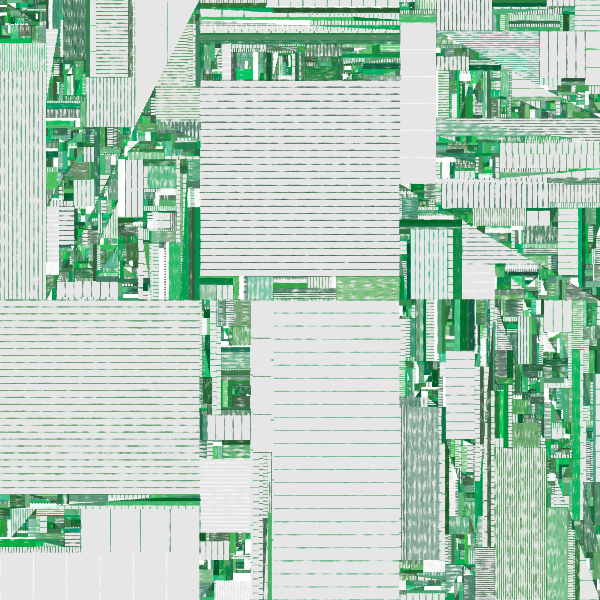
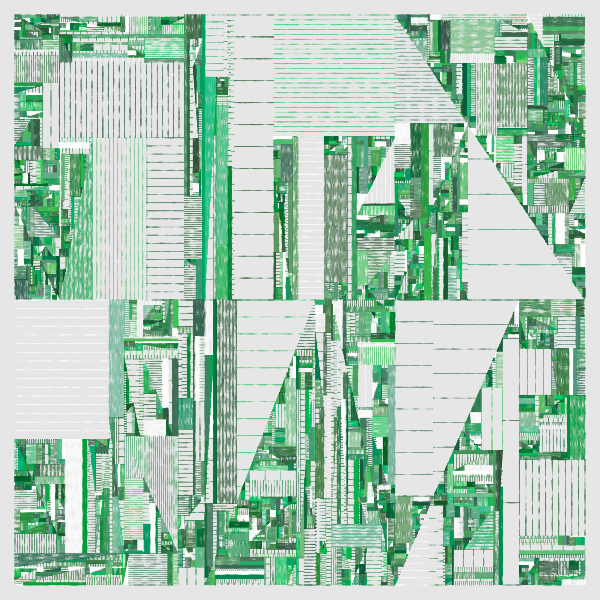
Restore Recursive internal paper padding without letterboxing

diff --git a/player/test/recursive-fullscreen.js b/player/test/recursive-fullscreen.js
@@ -17,13 +17,16 @@ function inspect(){
  const c=document.querySelector('canvas'),r=c.getBoundingClientRect(),ctx=c.getContext('2d');
  const expected=document.createElement('canvas');expected.width=c.width;expected.height=c.height;expected.getContext('2d').drawImage(mainCanvas.canvas,0,0,c.width,c.height);
  const actual=ctx.getImageData(0,0,c.width,c.height).data,ref=expected.getContext('2d').getImageData(0,0,c.width,c.height).data;
+ const padX=Math.max(1,Math.floor(100*scaler*c.width/mainCanvas.width)-1),padY=Math.max(1,Math.floor(100*scaler*c.height/mainCanvas.height)-1);
+ let marginMismatch=0;
  let differing=0,maxDelta=0,transparent=0;const colors=new Set();const edges={top:{black:0,n:0},bottom:{black:0,n:0},left:{black:0,n:0},right:{black:0,n:0}};
  for(let y=0;y<c.height;y++)for(let x=0;x<c.width;x++){
   const i=(y*c.width+x)*4;let diff=false;for(let k=0;k<4;k++){const d=Math.abs(actual[i+k]-ref[i+k]);if(d)diff=true;maxDelta=Math.max(maxDelta,d);}if(diff)differing++;
+  if(x<padX||x>=c.width-padX||y<padY||y>=c.height-padY){for(let k=0;k<4;k++)if(actual[i+k]!==actual[k]){marginMismatch++;break;}}
   if(actual[i+3]!==255)transparent++;colors.add((actual[i]<<16)|(actual[i+1]<<8)|actual[i+2]);
   for(const key of [y===0?'top':null,y===c.height-1?'bottom':null,x===0?'left':null,x===c.width-1?'right':null].filter(Boolean)){edges[key].n++;if(actual[i]<4&&actual[i+1]<4&&actual[i+2]<4)edges[key].black++;}
  }
- return {viewport:{width:innerWidth,height:innerHeight},rect:{x:r.x,y:r.y,width:r.width,height:r.height},backing:{width:c.width,height:c.height},main:{width:mainCanvas.width,height:mainCanvas.height},canvasWidth,canvasHeight,longSide,drawFinished,looping:isLooping(),fxhash,features:window.$fxhashFeatures,differing,maxDelta,transparent,colors:colors.size,edges,p5Version:p5.VERSION};
+ return {viewport:{width:innerWidth,height:innerHeight},rect:{x:r.x,y:r.y,width:r.width,height:r.height},backing:{width:c.width,height:c.height},main:{width:mainCanvas.width,height:mainCanvas.height},canvasWidth,canvasHeight,longSide,drawFinished,looping:isLooping(),fxhash,features:window.$fxhashFeatures,differing,maxDelta,transparent,colors:colors.size,edges,margin:{padX,padY,mismatch:marginMismatch},p5Version:p5.VERSION};
 }
 app.whenReady().then(async()=>{
  fs.mkdirSync(out,{recursive:true});
@@ -42,7 +45,7 @@ app.whenReady().then(async()=>{
  for(const [name,w,h] of [['wide',800,450],['portrait',450,800],['square',600,600]]){
   active={name,requested:{width:w,height:h},blocked:[],httpFailures:[],consoleErrors:[]};results.cases.push(active);const began=Date.now();win.setContentSize(w,h);assert.equal(win.isFullScreen(),false);assert.equal(win.isAlwaysOnTop(),false);
   await win.loadURL(origin+'/?exhibition=1');await until('playerState().current?.done&&!playerState().advancing','genuine setup completion');active.elapsedMs=Date.now()-began;active.state=await js('playerState()');assert.ok(active.state.status.includes('completed: setup'));
-  active.pixels=await inArt(inspect);const p=active.pixels;assert.deepEqual(p.viewport,{width:w,height:h});assert.deepEqual(p.rect,{x:0,y:0,width:w,height:h});assert.equal(Math.max(p.main.width,p.main.height),2000);assert.equal(p.main.width/p.main.height,w/h);assert.equal(p.drawFinished,true);assert.equal(p.looping,false);assert.equal(p.fxhash,fixedSeed);assert.equal(p.differing,0,'final display must equal complete mainCanvas composite, every pixel');assert.equal(p.transparent,0);assert.ok(p.colors>100);for(const e of Object.values(p.edges))assert.equal(e.black,0,'no black letterbox edge');assert.equal(active.blocked.length,0);assert.equal(active.httpFailures.length,0);assert.equal(active.consoleErrors.length,0);
+  active.pixels=await inArt(inspect);const p=active.pixels;assert.deepEqual(p.viewport,{width:w,height:h});assert.deepEqual(p.rect,{x:0,y:0,width:w,height:h});assert.equal(Math.max(p.main.width,p.main.height),2000);assert.equal(p.main.width/p.main.height,w/h);assert.equal(p.drawFinished,true);assert.equal(p.looping,false);assert.equal(p.fxhash,fixedSeed);assert.equal(p.differing,0,'final display must equal complete mainCanvas composite, every pixel');assert.equal(p.transparent,0);assert.ok(p.colors>100);assert.ok(p.margin.padX>1&&p.margin.padY>1);assert.equal(p.margin.mismatch,0,'all four padding bands preserve uniform paper color');for(const e of Object.values(p.edges))assert.equal(e.black,0,'no black letterbox edge');assert.equal(active.blocked.length,0);assert.equal(active.httpFailures.length,0);assert.equal(active.consoleErrors.length,0);
   const before=await inArt(()=>document.querySelector('canvas').toDataURL());await sleep(200);assert.equal(await inArt(()=>document.querySelector('canvas').toDataURL()),before);active.finalFrameStable=true;
   active.screenshot='audit/recursive-fullscreen/'+name+'.png';fs.writeFileSync(path.join(root,active.screenshot),(await win.webContents.capturePage()).toPNG());active.pass=true;save();console.log('CASE_PASS '+JSON.stringify(active));
  }

diff --git a/player/test/recursive-layout.test.js b/player/test/recursive-layout.test.js
@@ -11,8 +11,8 @@ test('Recursive drawing buffer follows wide, portrait, square and ultrawide view
 test('Recursive image composites full viewport without fixed orientation or letterbox',()=>{
  const images=[],c=load(source,{width:1920,height:1080,BLEND:'blend',blendMode(){},image:(...args)=>images.push(args)});vm.runInContext('mainCanvas={};draw();',c);assert.equal(images.length,1);assert.deepEqual(images[0].slice(1),[0,0,1920,1080]);
 });
-test('Recursive grid has no fixed paper margins and covers complete buffer',async()=>{
- const calls=[],c=load(source,{capture:(...a)=>calls.push(a)});vm.runInContext('gridW=2;gridH=3;canvasWidth=1600;canvasHeight=900;NYRect=async(...args)=>capture(...args);',c);await c.startDraw();assert.equal(calls.length,6);assert.equal(Math.min(...calls.map(a=>a[0])),0);assert.equal(Math.min(...calls.map(a=>a[1])),0);assert.equal(Math.max(...calls.map(a=>a[0]+a[2])),1600);assert.equal(Math.max(...calls.map(a=>a[1]+a[3])),900);
+test('Recursive grid preserves original internal padding within full-size buffer',async()=>{
+ const calls=[],c=load(source,{capture:(...a)=>calls.push(a)});vm.runInContext('gridW=2;gridH=3;canvasWidth=1600;canvasHeight=900;NYRect=async(...args)=>capture(...args);',c);await c.startDraw();assert.equal(calls.length,6);assert.equal(Math.min(...calls.map(a=>a[0])),50);assert.equal(Math.min(...calls.map(a=>a[1])),50);assert.equal(Math.max(...calls.map(a=>a[0]+a[2])),1550);assert.equal(Math.max(...calls.map(a=>a[1]+a[3])),850);
 });
 test('Recursive core shape, color and random algorithms remain byte-for-byte function-identical',()=>{
  const a=load(original),b=load();for(const name of ['NYRect','NYTriangle','NYLine','NYRandomColor','NYNoiseMap','fxRandom','sleep'])assert.equal(vm.runInContext(name+'.toString()',a),vm.runInContext(name+'.toString()',b),name);

diff --git a/artworks/2022-Recursive-and-Blocks/sketch.js b/artworks/2022-Recursive-and-Blocks/sketch.js
@@ -108,7 +108,7 @@ async function startDraw() {
 
   console.log("amount: " + blockWCount + "," + blockHCount);
 
-  let padding = 0; // Edge-to-edge composition; no fixed paper margin.
+  let padding = 100 * scaler; // Original internal paper margin; viewport remains full-size.
 
   let blockWidth = (canvasWidth - padding * 2) / blockWCount
   let blockHeight = (canvasHeight - padding * 2) / blockHCount;

diff --git a/audit/recursive-fullscreen/report.md b/audit/recursive-fullscreen/report.md
@@ -1,19 +1,7 @@
-# Recursive viewport independent validation — PASS
+# Recursive viewport with original internal padding — PASS
 
-2026-11-04, actual Electron 39.8.10 / Chromium 142 / artwork p5 1.4.1. Ran `player/test/recursive-fullscreen.js` with the supplied Node 24 launcher on the Mac mini. Exit code 0; `RECURSIVE_FULLSCREEN_PASS` in `run.log`. Ordinary visible window, fullscreen=false and alwaysOnTop=false asserted; no exhibition native-window code called. The `?exhibition=1` player query only suppresses UI overlays. Exact localhost origin allow-list enforced for every network request.
+Restored original padding: 100 * scaler, default 50 on the 2000-pixel long-edge drawing buffer. Canvas still fills the viewport aspect ratio; fixed-orientation letterboxing is not restored.
 
-| Content viewport | Generation canvas | Completion elapsed | Distinct display colors |
-|---|---|---|---|
-| 800×450 (16:9) | 2000×1125 | 9,900 ms | 70,654 |
-| 450×800 (9:16) | 1125×2000 | 9,488 ms | 68,737 |
-| 600×600 (1:1) | 2000×2000 | 11,521 ms | 62,603 |
+Actual offline p5 rendering passed for 800x450, 450x800 and 600x600. Genuine setup completion, stable final frames, exact final pixel match to completed mainCanvas. All four internal paper-colored padding bands are uniform; no transparent pixels or black letterbox edges. Results and screenshots refreshed after padding correction; wide screenshot visually inspected. Earlier no-margin evidence is superseded.
 
-All three use the same fixed fxhash, appended by test-only request redirect; artwork source is not modified/instrumented. Each genuinely reached player `completed: setup`, `drawFinished=true`, and `isLooping()=false`. Visible canvas rectangle is exactly (0,0,viewportWidth,viewportHeight). Generation aspect equals viewport aspect, maintaining the 2000-pixel long-edge budget.
-
-After completion, same-origin iframe evaluation reads the real lexical `mainCanvas`. A fresh reference canvas composites the completed mainCanvas to display dimensions. Every display RGBA pixel matches reference exactly in all cases (differing=0, maxDelta=0), including all edges. This validates final-frame flush without calling artwork draw or sending fake completion. All display pixels opaque; no near-black pixels on any of the four outermost edges. Frames remain byte-identical after another 200 ms. No blocked requests, HTTP failures, or renderer console errors.
-
-Manually inspected `wide.png`, `portrait.png`, and `square.png`: all show complete, nonblank green recursive linework throughout the viewport, reaching all four boundaries, without black bars or the former fixed outer paper margin. Interior light paper areas are intentional shapes, not letterboxing.
-
[1 lines of base64/hex data omitted]
-
-Artifacts: `results.json`, `run.log`, `wide.png`, `portrait.png`, `square.png`. Reviewer wrote only this audit directory and `player/test/recursive-fullscreen.js`; no source changes, commits, pushes, fullscreen takeover, or service changes. This validates three fresh generations, not live resizing during an in-progress generation.
+52 unit tests pass, including restored 50-pixel inset grid bounds. Core drawing/RNG algorithms unchanged. Upstream original and authorized local checksum verified. See results.json for hashes, dimensions and measured margin bands. Ordinary window only, no exhibition takeover.

diff --git a/artworks/2022-Recursive-and-Blocks/LOCAL-CHANGES.md b/artworks/2022-Recursive-and-Blocks/LOCAL-CHANGES.md
@@ -2,9 +2,9 @@
 
 - Skip the expensive NYRandomTextureLines() background-texture pass. Texture function remains in source but is not invoked.
 - Generate mainCanvas using the current viewport aspect ratio, keeping the original long-edge resolution budget (4000 * scaler * deviceScaler, default 2000).
-- Remove the fixed 100*scaler paper margin so the recursive base grid extends to every edge.
+- Preserve the original internal paper margin (100 * scaler, default 50 on the 2000-pixel generation buffer); the outer canvas still fills the viewport.
 - Composite mainCanvas directly over the full viewport (no fixed 4:3 / 3:4 layout, letterboxing or center-cropping). Draw the final generated buffer before noLoop.
 
-Block/triangle drawing, color and random generator functions are unchanged. Orientation trait RNG is still consumed as before, but no longer determines the drawing dimensions. Texture removal and new composition dimensions/margins intentionally change the output compared with the original fixed-layout version; same fxhash is not a promise of the same original composition. Each new generation uses the viewport dimensions at startup.
+Block/triangle drawing, color and random generator functions are unchanged. Orientation trait RNG is still consumed as before, but no longer determines the drawing dimensions. Texture removal and new composition dimensions intentionally change the output compared with the original fixed-layout version; same fxhash is not a promise of the same original composition. Each new generation uses the viewport dimensions at startup.
 
 SOURCE.json retains the original upstream checksum; upstream/sketch.js is an exact copy of that original and is not loaded by the player. LOCAL-CHANGES.json records upstream and authorized modified sketch checksums, checked by scripts/verify-sources.mjs. Update that metadata deliberately when making future local edits.

diff --git a/QUICKSTART.zh-TW.md b/QUICKSTART.zh-TW.md
@@ -42,7 +42,7 @@ npm start -- --display 0
 
 每輪會將全部作品隨機排列一次，同輪不重複抽到同件；每件仍依 repetitions 連續生成 3 次再換下一件。全部播過才重新洗牌，並避免跨輪連續同件（多件作品時）。shuffle=false 可恢復清單順序。手動或錯誤後跳過會消耗當次排定生成，不會重開整輪。不同作品可在各自 entry 覆寫 holdMs 和 watchdogMs。不要把載入完成當作繪製完成；完成判定依各作品經檢查的 adapter。
 
-Recursive and Blocks 已跳過背景紋理繪製；改為依目前螢幕比例生成滿版構圖，移除固定紙張留白與橫直版型黑邊，不裁切原畫面。保留底色和主要圖形演算法。其原始函式仍保留便於之後修改。跳過這段也會省略原本亂數消耗，因此同 seed 與原網站紋理版不保證相同構圖。
+Recursive and Blocks 已跳過背景紋理繪製；改為依目前螢幕比例生成滿版構圖，保留原本作品內部 padding、移除橫直版型黑邊，不裁切原畫面。保留底色和主要圖形演算法。其原始函式仍保留便於之後修改。跳過這段也會省略原本亂數消耗，因此同 seed 與原網站紋理版不保證相同構圖。
 
 詳見 README.md、ARTWORKS.md 與 audit/ 下的驗證記錄。首次安裝需要下載 npm/Electron 套件；安裝完成後播放作品不需要網路。修改後建議先用 --windowed 驗證，再放上展演螢幕。
 

diff --git a/ARTWORKS.md b/ARTWORKS.md
@@ -3,7 +3,7 @@ Each artwork is self-contained in artworks/<year-title>/. Edit its sketch.js and
 
 Sources: https://sketch.newyellow.xyz/ (Newyellow). Vendored p5.js retains its upstream version banner. Complete LGPL notices, readable builds, upstream source archives and third-party attribution are provided under third-party/; see THIRD-PARTY.md. Public repository access does not imply a new license grant for the artwork; no blanket software/artwork license has been added.
 
-2022-Recursive-and-Blocks: expensive background texture call disabled; composition now fills the viewport aspect ratio with no fixed paper margin or letterbox. Original sketch archived under its upstream/ folder, authorized local checksum in LOCAL-CHANGES.json; see LOCAL-CHANGES.md. This intentionally changes subsequent RNG state compared to the original texture pass.
+2022-Recursive-and-Blocks: expensive background texture call disabled; composition now fills the viewport aspect ratio with its original internal paper padding and no letterbox. Original sketch archived under its upstream/ folder, authorized local checksum in LOCAL-CHANGES.json; see LOCAL-CHANGES.md. This intentionally changes subsequent RNG state compared to the original texture pass.
 
 2023-Human-Flow upstream references colorSetting.js, which returned HTTP 404 at import. No replacement code has been invented. The integration audit documents whether this unused reference is omitted by the serving adapter.
 
